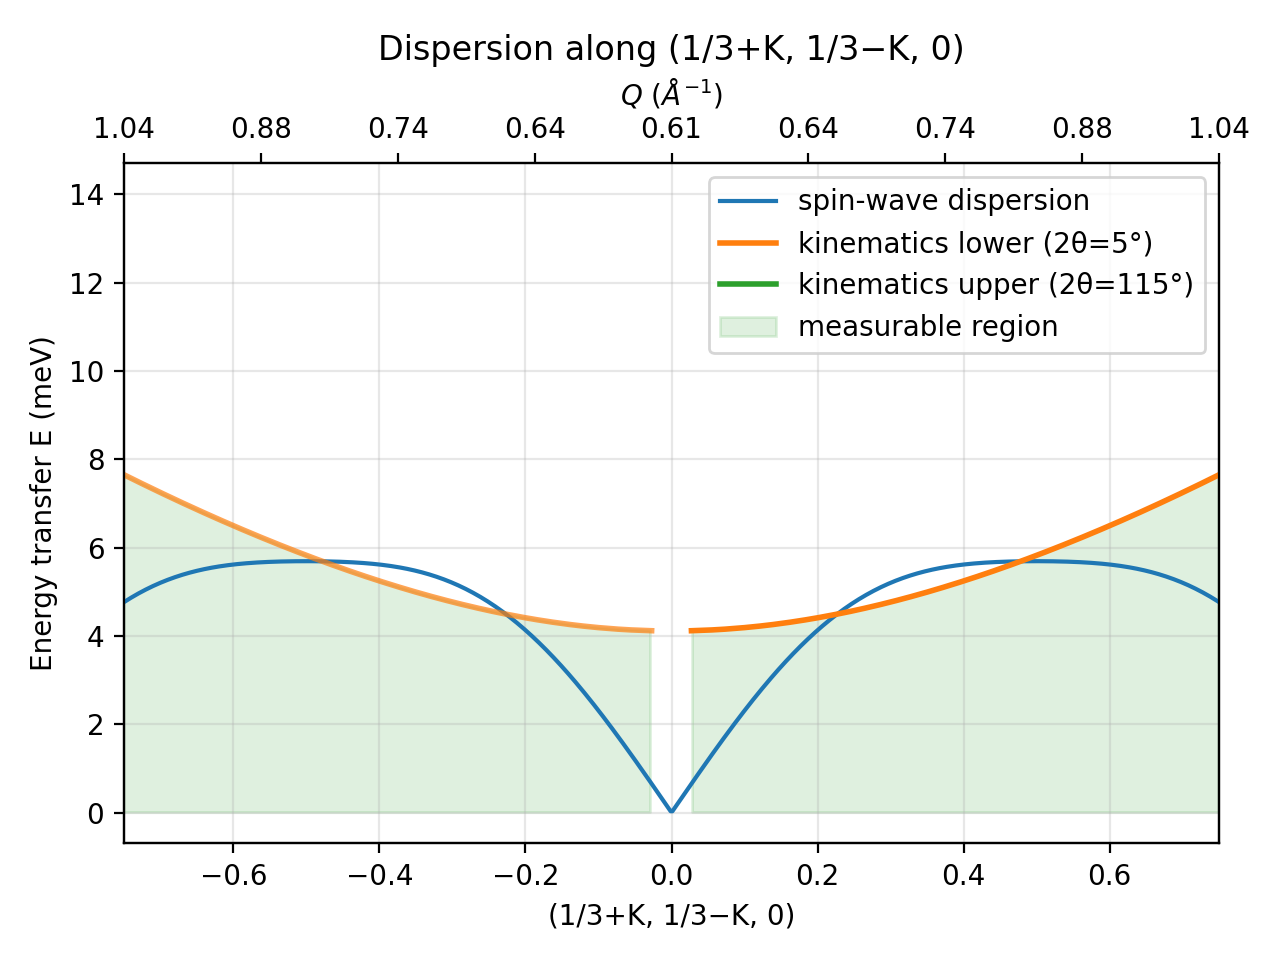
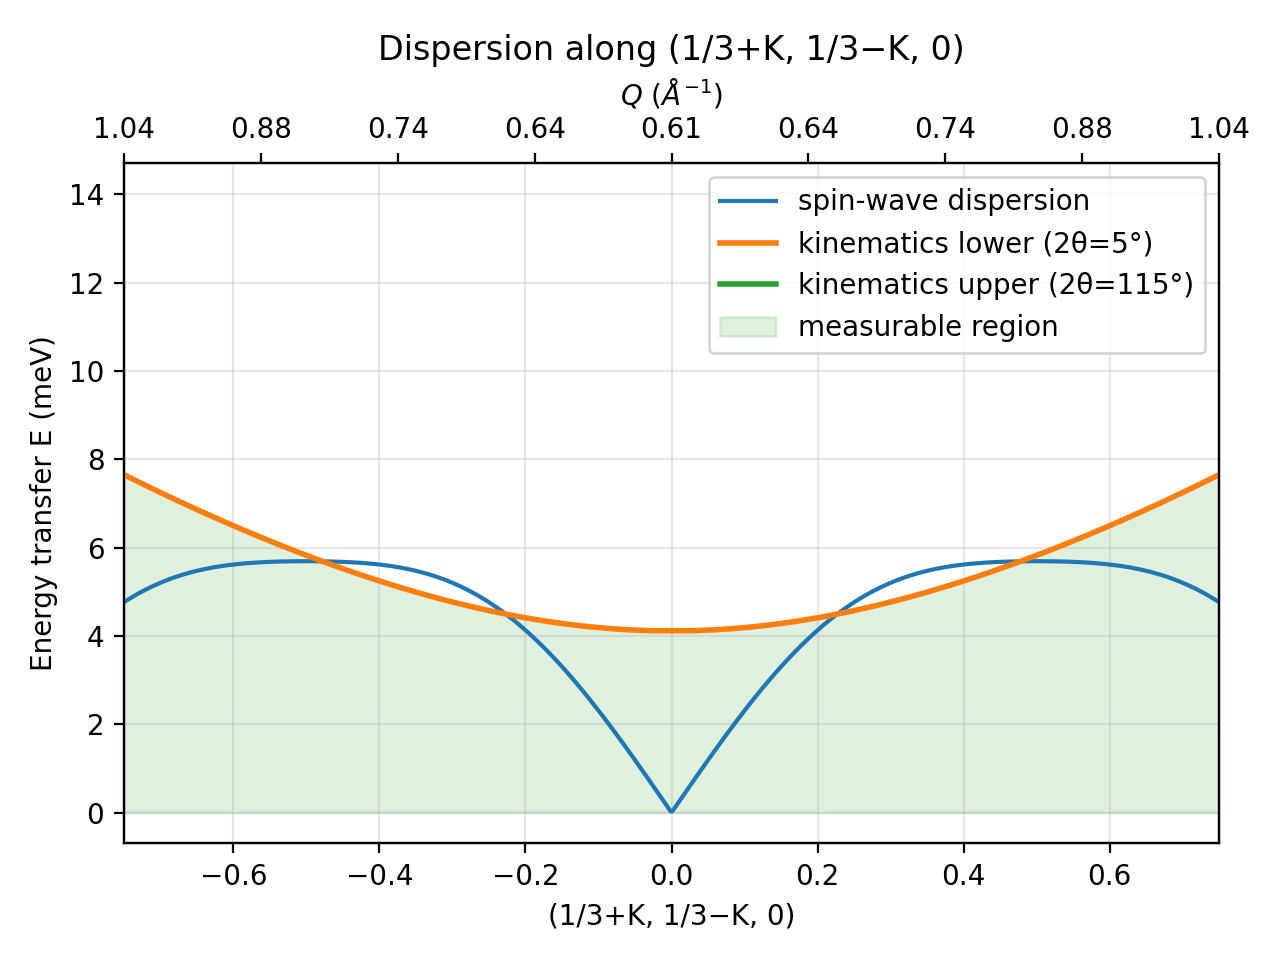
Fix K/L lower-bound rendering continuity

diff --git a/code/qe_plot.py b/code/qe_plot.py
@@ -141,7 +141,11 @@ def make_energy_grid(Emax: float, n: int = 800) -> np.ndarray:
 
 
 def energy_from_path_coord(
-    x_eval: np.ndarray, x_curve: np.ndarray, E_grid: np.ndarray
+    x_eval: np.ndarray,
+    x_curve: np.ndarray,
+    E_grid: np.ndarray,
+    left_value: float = np.nan,
+    right_value: float = np.nan,
 ) -> np.ndarray:
     """
     Interpolate E(x) from a sampled monotonic x(E) curve.
@@ -162,7 +166,7 @@ def energy_from_path_coord(
     if uniq_x.size < 2:
         return np.full_like(x_eval, np.nan, dtype=float)
 
-    return np.interp(x_eval, uniq_x, uniq_E, left=np.nan, right=np.nan)
+    return np.interp(x_eval, uniq_x, uniq_E, left=left_value, right=right_value)
 
 
 def plot_path(
@@ -277,7 +281,16 @@ def plot_symmetric_path(
     x_abs_low = qedge_to_abs_path(Q_low, Q_center=Q_center, Q_scale=Q_scale)
     x_abs_high = qedge_to_abs_path(Q_high, Q_center=Q_center, Q_scale=Q_scale)
     x_abs = np.abs(x_path)
-    E_top = energy_from_path_coord(x_abs, x_abs_low, E_grid)
+    valid_low = np.isfinite(x_abs_low) & np.isfinite(E_grid)
+    if np.any(valid_low):
+        # For |x| below the sampled lower-edge domain, keep the threshold energy
+        # so the measurable region spans E=0 to the lower edge at the center.
+        left_energy_low = float(np.nanmin(E_grid[valid_low]))
+    else:
+        left_energy_low = np.nan
+    E_top = energy_from_path_coord(
+        x_abs, x_abs_low, E_grid, left_value=left_energy_low, right_value=np.nan
+    )
     upper_in_view = np.any(
         np.isfinite(x_abs_high)
         & (x_abs_high >= np.nanmin(x_abs))
@@ -299,14 +312,23 @@ def plot_symmetric_path(
         zorder=1,
     )
     (spin_line,) = ax.plot(x_path, E_path, label="spin-wave dispersion", zorder=3)
-    (low_line,) = ax.plot(
-        x_abs_low,
-        E_grid,
+    low_plot_kwargs = dict(
         color="tab:orange",
         label=f"kinematics lower (2θ={two_theta_min_deg:g}°)",
         linewidth=2.0,
         zorder=4,
     )
+    if np.any(valid_low):
+        low_x_valid = x_abs_low[valid_low]
+        low_E_valid = E_grid[valid_low]
+        # Build one connected polyline: (-branch) -> center cusp -> (+branch).
+        low_x_conn = np.concatenate((-low_x_valid[::-1], np.array([0.0]), low_x_valid))
+        low_E_conn = np.concatenate(
+            (low_E_valid[::-1], np.array([left_energy_low]), low_E_valid)
+        )
+        (low_line,) = ax.plot(low_x_conn, low_E_conn, **low_plot_kwargs)
+    else:
+        (low_line,) = ax.plot([], [], **low_plot_kwargs)
     (high_line,) = ax.plot(
         x_abs_high,
         E_grid,
@@ -315,7 +337,6 @@ def plot_symmetric_path(
         linewidth=2.0,
         zorder=5,
     )
-    ax.plot(-x_abs_low, E_grid, color="tab:orange", alpha=0.7, linewidth=2.0, zorder=4)
     ax.plot(-x_abs_high, E_grid, color="tab:green", alpha=0.7, linewidth=2.0, zorder=5)
 
     ax.set_title(title)
